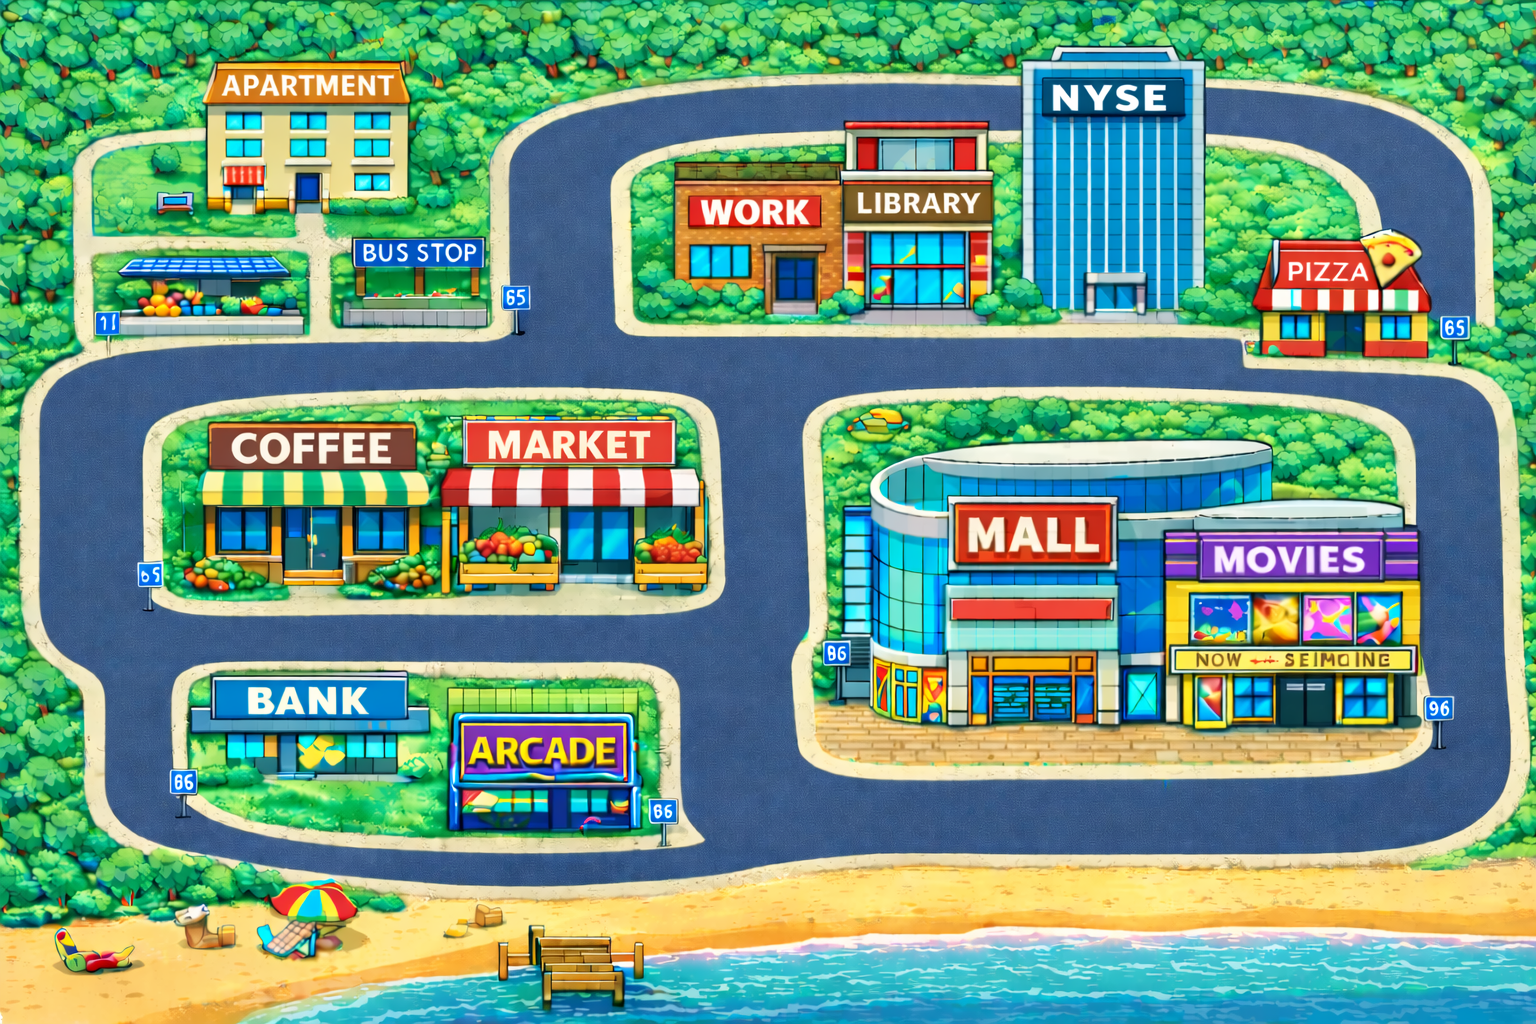
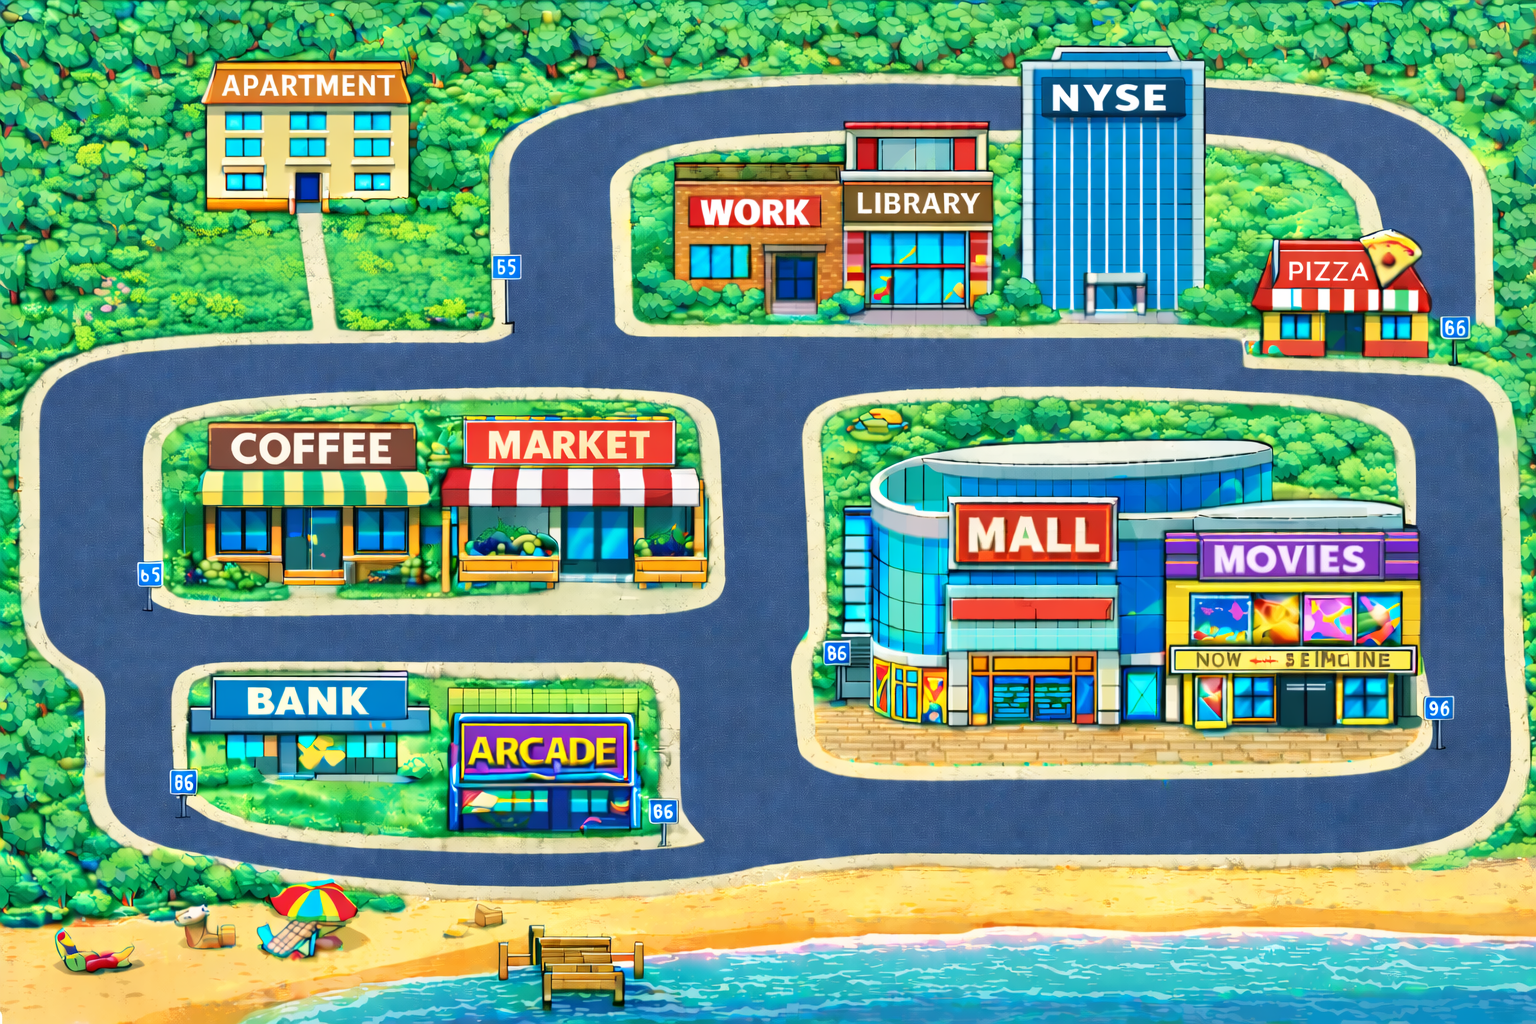
finalized borderds and popups

diff --git a/phaser/scenes/World.js b/phaser/scenes/World.js
@@ -61,21 +61,22 @@ export class World extends Phaser.Scene {
     // --- CREATE COLLISION ZONES ---
     this.createCollisionZones();
 
-    // Create player at starting position
-    const startPos = this.gameState.playerPosition;
-    this.player = new Player(
-      this,
-      startPos.x * tileSize + tileSize / 2,
-      startPos.y * tileSize + tileSize / 2
+    // Create player at starting position (User requested: 310, 225)
+    this.player = new Player(this, 310, 225);
+
+    // Sync GameState to this new position
+    this.gameState.updatePlayerPosition(
+        Math.floor(310 / tileSize), 
+        Math.floor(225 / tileSize)
     );
 
     // --- ADD COLLISIONS ---
     // Player hits buildings -> Stop
     this.physics.add.collider(this.player.sprite, this.buildings);
 
-    // Player touches door -> Trigger
+    // Player touches door -> Check Timer first
     this.physics.add.overlap(this.player.sprite, this.doors, (player, door) => {
-        this.handleDoorTrigger(door.name);
+        this.handleDoorOverlap(door.name);
     });
 
     // Encounter markers (Visual only now, or could convert to triggers too)
@@ -98,7 +99,7 @@ export class World extends Phaser.Scene {
     this.cameras.main.setBounds(0, 0, this.mapWidthPx, this.mapHeightPx);
     
     // Zoom in for better view of the big map (2x zoom)
-    this.cameras.main.setZoom(1);
+    this.cameras.main.setZoom(0.40);
     
     // Start camera at top-left corner (0, 0)
     // this.cameras.main.scrollX = 0; // Let follow handle it
@@ -131,6 +132,18 @@ export class World extends Phaser.Scene {
       fontSize: '12px',
       fill: '#888'
     }).setScrollFactor(0);
+
+    // Debug: show player position
+    this.debugText = this.add.text(10, 50, '', {
+        fontSize: '16px',
+        fill: '#00ff00',
+        backgroundColor: '#000000'
+    }).setScrollFactor(0);
+
+    // Track door interaction
+    this.currentOverlappingDoor = null;
+    this.overlapEnterTime = 0;
+    this.lastOverlapFrameTime = 0;
   }
 
   // --- NEW HELPER METHODS ---
@@ -163,8 +176,7 @@ export class World extends Phaser.Scene {
     // ---------------------------------------------------------
 
     // 1. market STORE (Top Left)
-    // Matches encounter at 2,2 (pixels ~64,64)
-    createBuilding(390, 415, 300, 170, 'COLL_CORNER_STORE'); 
+    createBuilding(400, 415, 300, 170, 'COLL_CORNER_STORE'); 
 
     createDoor(570, 530, 40, 60, 'DOOR_WORK');
 
@@ -177,28 +189,24 @@ export class World extends Phaser.Scene {
 
 
     // 3. mall (Top Right - big building)
-    // Format: (X, Y, Width, Height)
-    // X = Left/Right position
-    // Y = Up/Down position (Increase this to move LOWER)
     createBuilding(830, 420, 500, 310, 'COLL_APARTMENT');
-
     createDoor(1025, 680, 40, 60, 'DOOR_WORK');
 
 
       // 6. movie
-    createBuilding(1300, 450, 100, 280, 'COLL_WORK');
-
-       createDoor(1280, 680, 40, 60, 'DOOR_WORK');
+    createBuilding(1320, 450, 100, 280, 'COLL_WORK');
+    createDoor(1280, 680, 40, 60, 'DOOR_WORK');
 
 
     // 4. bank  (Center area)
     createBuilding(190, 680, 230, 100, 'COLL_COFFEE');
-
     createDoor(300, 730, 40, 60, 'DOOR_WORK');
 
 
     // 5. coffee (Bottom Left - very big)
     createBuilding(176, 415, 250, 180, 'COLL_MALL_MAIN');
+    createDoor(290, 540, 40, 60, 'DOOR_WORK');
+
 
     // 6. work / library + bit of a wall st(Bottom Right)
     createBuilding(647, 163, 670, 160, 'COLL_WORK');
@@ -210,19 +218,44 @@ export class World extends Phaser.Scene {
     createDoor(775, 280, 40, 60, 'DOOR_WORK');
 
 
-    
-    // 7. BUS STOPS (Yellow Zones)
-    // BUS STOP 1: (Main Road)
-    createBuilding(350, 243, 10, 85, 'COLL_BUSSTOP_POLE', 0xffff00); // Yellow Pole
-    createDoor(330, 243, 40, 85, 'DOOR_BUSSTOP', 0xffff00); // Yellow Trigger Zone
+    // Beach
+    createDoor(0, 910, 4000, 110, 'DOOR_WORK');
 
-    // BUS STOP 2: (Community Area)
-    createBuilding(100, 245, 10, 85, 'COLL_BUSSTOP_POLE', 0xffff00); 
-    createDoor(120, 245, 40, 85, 'DOOR_BUSSTOP', 0xffff00);
+
+
+    
+    // 7. BUS STOPS (Purple Zones)
+    // BUS STOP 1: (pizza)
+    createDoor(1450, 300, 15, 70, 'DOOR_BUSSTOP', 0x800080); 
+
+     // BUS STOP : (Movie)
+    createDoor(1430, 710, 15, 30, 'DOOR_BUSSTOP', 0x800080); 
+
+       // BUS STOP : (Mall)
+    createDoor(815, 650, 15, 30, 'DOOR_BUSSTOP', 0x800080); 
+
+
+           // BUS STOP : (Arcade)
+    createDoor(640, 800, 15, 30, 'DOOR_BUSSTOP', 0x800080); 
+
+               // BUS STOP : (Bank)
+    createDoor(180, 780, 15, 30, 'DOOR_BUSSTOP', 0x800080); 
+
+                   // BUS STOP : (Coffe)
+    createDoor(150, 580, 15, 30, 'DOOR_BUSSTOP', 0x800080); 
+
+    // BUS STOP 2: (near apartment  Area)
+    createDoor(490, 270, 15, 30, 'DOOR_BUSSTOP', 0x800080);
 
 
         // Apartment
     createBuilding(210, 5, 280, 200, 'COLL_WORK');
+
+    // apratment block
+        createBuilding(10, 5, 280, 320, 'COLL_WORK');
+
+    // appartment block 2
+        createBuilding(367, 200, 100, 100, 'COLL_WORK');
 
        createDoor(300, 148, 40, 60, 'DOOR_WORK');
 
@@ -262,9 +295,29 @@ export class World extends Phaser.Scene {
     console.log("Collision zones created");
   }
 
+  handleDoorOverlap(doorName) {
+    const now = this.time.now;
+    this.lastOverlapFrameTime = now;
+
+    // 1. Initial Entry: Start Timer
+    if (this.currentOverlappingDoor !== doorName) {
+        this.currentOverlappingDoor = doorName;
+        this.overlapEnterTime = now;
+        console.log(`Entered ${doorName}. Waiting 1s...`);
+        return; 
+    }
+
+    // 2. Waiting (debounce already handled inside handleDoorTrigger or we can add extra check)
+    // Check if 1 second has passed
+    if (now - this.overlapEnterTime >= 1000) {
+        this.handleDoorTrigger(doorName);
+    }
+  }
+
   handleDoorTrigger(doorName) {
       const now = this.time.now;
-      if (this.lastTriggerTime && now - this.lastTriggerTime < 1000) {
+      // Increased cooldown to 3000ms (3 seconds) to prevent re-triggering same popup immediately
+      if (this.lastTriggerTime && now - this.lastTriggerTime < 3000) {
           return;
       }
       this.lastTriggerTime = now;
@@ -320,7 +373,7 @@ export class World extends Phaser.Scene {
           // Use body.reset to properly teleport physics body and kill velocity
           this.player.sprite.body.reset(
               this.savedPlayerPos.x, 
-              this.savedPlayerPos.y + 20 // Apply nudge directly here
+              this.savedPlayerPos.y + 10 
           );
       } else {
           // Fallback if no saved pos (rare)
@@ -396,6 +449,17 @@ export class World extends Phaser.Scene {
         // Stop moving and play idle animation
         this.player.setVelocity(0, 0);
         this.player.playIdleAnimation();
+    }
+
+    // Update debug text with player position
+    if (this.debugText && this.player && this.player.sprite) {
+        this.debugText.setText(`x: ${Math.round(this.player.sprite.x)}, y: ${Math.round(this.player.sprite.y)}`);
+    }
+
+    // Reset overlap if player left the zone
+    if (this.currentOverlappingDoor && (this.time.now - this.lastOverlapFrameTime > 50)) {
+        console.log(`Left ${this.currentOverlappingDoor}`);
+        this.currentOverlappingDoor = null;
     }
   }
 

diff --git a/components/Overworld.tsx b/components/Overworld.tsx
@@ -180,123 +180,19 @@ export const Overworld: React.FC<OverworldProps> = ({
     setModalStep("result");
   };
 
-  const preview = useMemo(() => {
-    if (!activeEncounter) return null;
-    const buyBalance = Math.max(0, money.balance - activeEncounter.cost);
-    const skipBalance = money.balance;
-    return {
-      buyETA: calculateGoalETAWeeks(
-        buyBalance,
-        money.weeklyAllowance,
-        money.goal.cost,
-      ),
-      skipETA: calculateGoalETAWeeks(
-        skipBalance,
-        money.weeklyAllowance,
-        money.goal.cost,
-      ),
-      buyBalance,
-      skipBalance,
-    };
-  }, [activeEncounter, money.balance, money.weeklyAllowance, money.goal.cost]);
+  const handleGameReady = useCallback((game: Phaser.Game) => {
+    gameRef.current = game;
+  }, []);
 
-
-
-    return (
-        <div className="flex flex-col min-h-screen bg-[#0b0f19] text-white relative overflow-hidden">
-            <div className="flex-1 flex flex-col lg:flex-row items-center justify-center gap-8 p-6 z-10">
-                <PhaserGame
-                    onEncounter={handleEncounter}
-                    onReady={(game: Phaser.Game) => {
-                        gameRef.current = game;
-                    }}
-                    characterId={user.characterId}
-                />
-            </div>
-
-      {activeEncounter && (
-        <div className="absolute inset-0 z-20 bg-black/70 flex items-center justify-center p-4">
-          <RetroBox title={activeEncounter.title} className="max-w-lg w-full">
-            <div className="space-y-4">
-              <p className="text-sm font-bold">{activeEncounter.prompt}</p>
-
-              {modalStep === "choice" && (
-                <div className="flex flex-col gap-2">
-                  <button
-                    onClick={() => applyChoice("buy")}
-                    className="bg-green-600 text-white p-3 uppercase text-xs font-bold border-2 border-black"
-                  >
-                    Buy (${activeEncounter.cost})
-                  </button>
-                  <button
-                    onClick={() => applyChoice("skip")}
-                    className="bg-yellow-500 text-black p-3 uppercase text-xs font-bold border-2 border-black"
-                  >
-                    Skip
-                  </button>
-                  <button
-                    onClick={() => setModalStep("preview")}
-                    className="bg-blue-600 text-white p-3 uppercase text-xs font-bold border-2 border-black"
-                  >
-                    Try it first
-                  </button>
-                </div>
-              )}
-
-              {modalStep === "preview" && preview && (
-                <div className="space-y-3 text-sm">
-                  <p className="font-bold">Quick preview (next 2–3 days)</p>
-                  <div className="bg-gray-100 text-black p-3 border-2 border-black">
-                    <p>
-                      Buy: balance ${preview.buyBalance}, goal ETA{" "}
-                      {preview.buyETA} weeks
-                    </p>
-                    <p>
-                      Skip: balance ${preview.skipBalance}, goal ETA{" "}
-                      {preview.skipETA} weeks
-                    </p>
-                  </div>
-                  <div className="flex gap-2">
-                    <button
-                      onClick={() => setModalStep("choice")}
-                      className="flex-1 bg-gray-200 text-black p-2 uppercase text-xs font-bold border-2 border-black"
-                    >
-                      Back
-                    </button>
-                  </div>
-                </div>
-              )}
-
-              {modalStep === "result" && (
-                <div className="space-y-3 text-sm">
-                  <p className="font-bold">What changed?</p>
-                  <ul className="list-disc pl-4">
-                    {resultNotes.map((note, idx) => (
-                      <li key={idx}>{note}</li>
-                    ))}
-                  </ul>
-                  <p>Balance now: ${money.balance}</p>
-                  <p>
-                    Goal ETA:{" "}
-                    {calculateGoalETAWeeks(
-                      money.balance,
-                      money.weeklyAllowance,
-                      money.goal.cost,
-                    )}{" "}
-                    weeks
-                  </p>
-                  <button
-                    onClick={closeEncounter}
-                    className="w-full bg-black text-white p-2 uppercase text-xs font-bold border-2 border-black"
-                  >
-                    Keep exploring
-                  </button>
-                </div>
-              )}
-            </div>
-          </RetroBox>
-        </div>
-      )}
+  return (
+    <div className="flex flex-col min-h-screen bg-[#0b0f19] text-white relative overflow-hidden">
+      <div className="flex-1 flex flex-col lg:flex-row items-center justify-center gap-8 p-6 z-10">
+        <PhaserGame
+          onEncounter={handleEncounter}
+          onReady={handleGameReady}
+          characterId={user.characterId}
+        />
+      </div>
 
       {activeDoorId && activeDoorId !== "DOOR_BUSSTOP" && (
         <div className="absolute inset-0 z-20 bg-black/70 flex items-center justify-center p-4">
